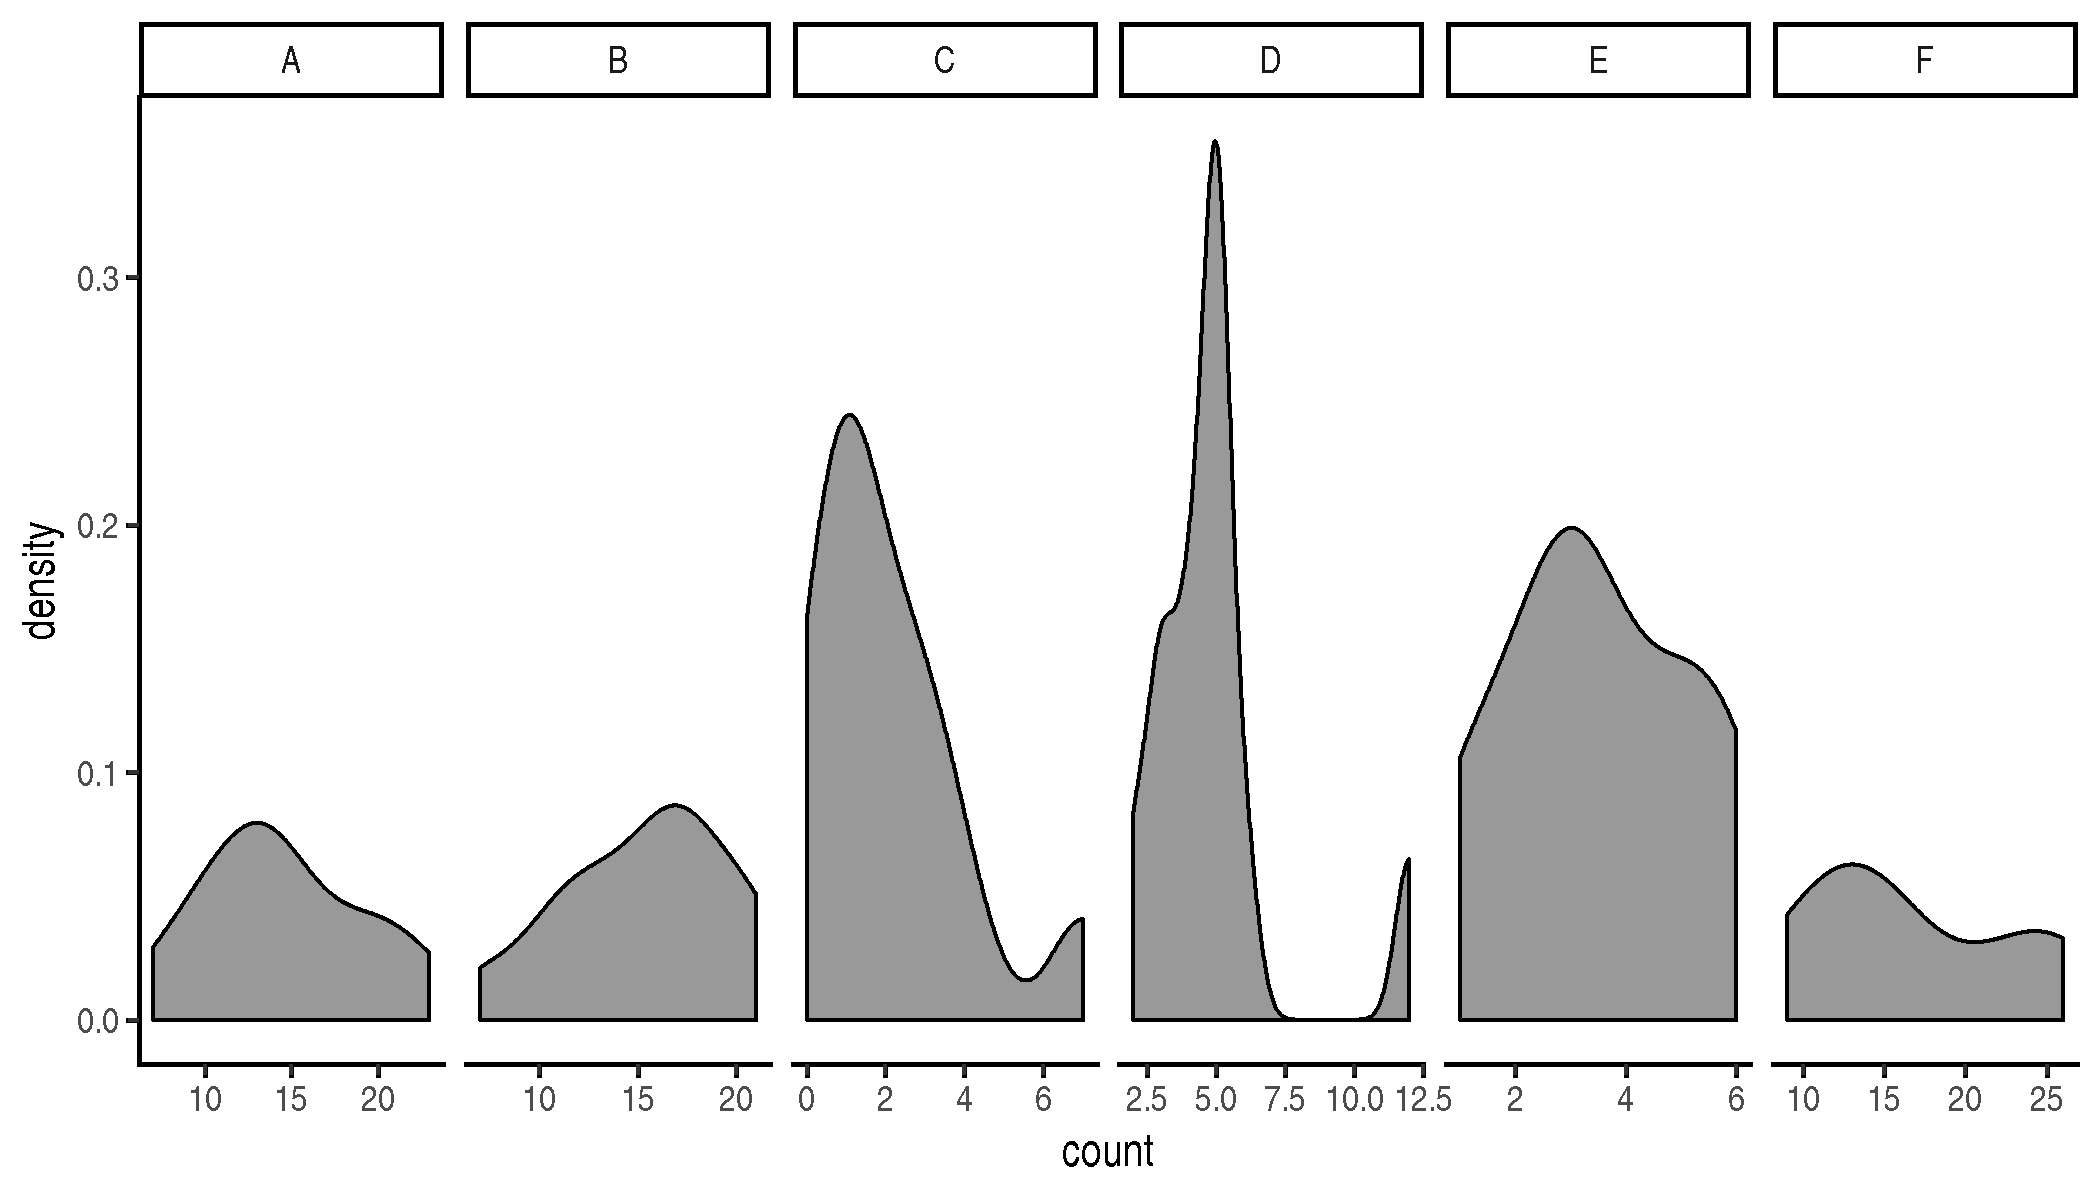
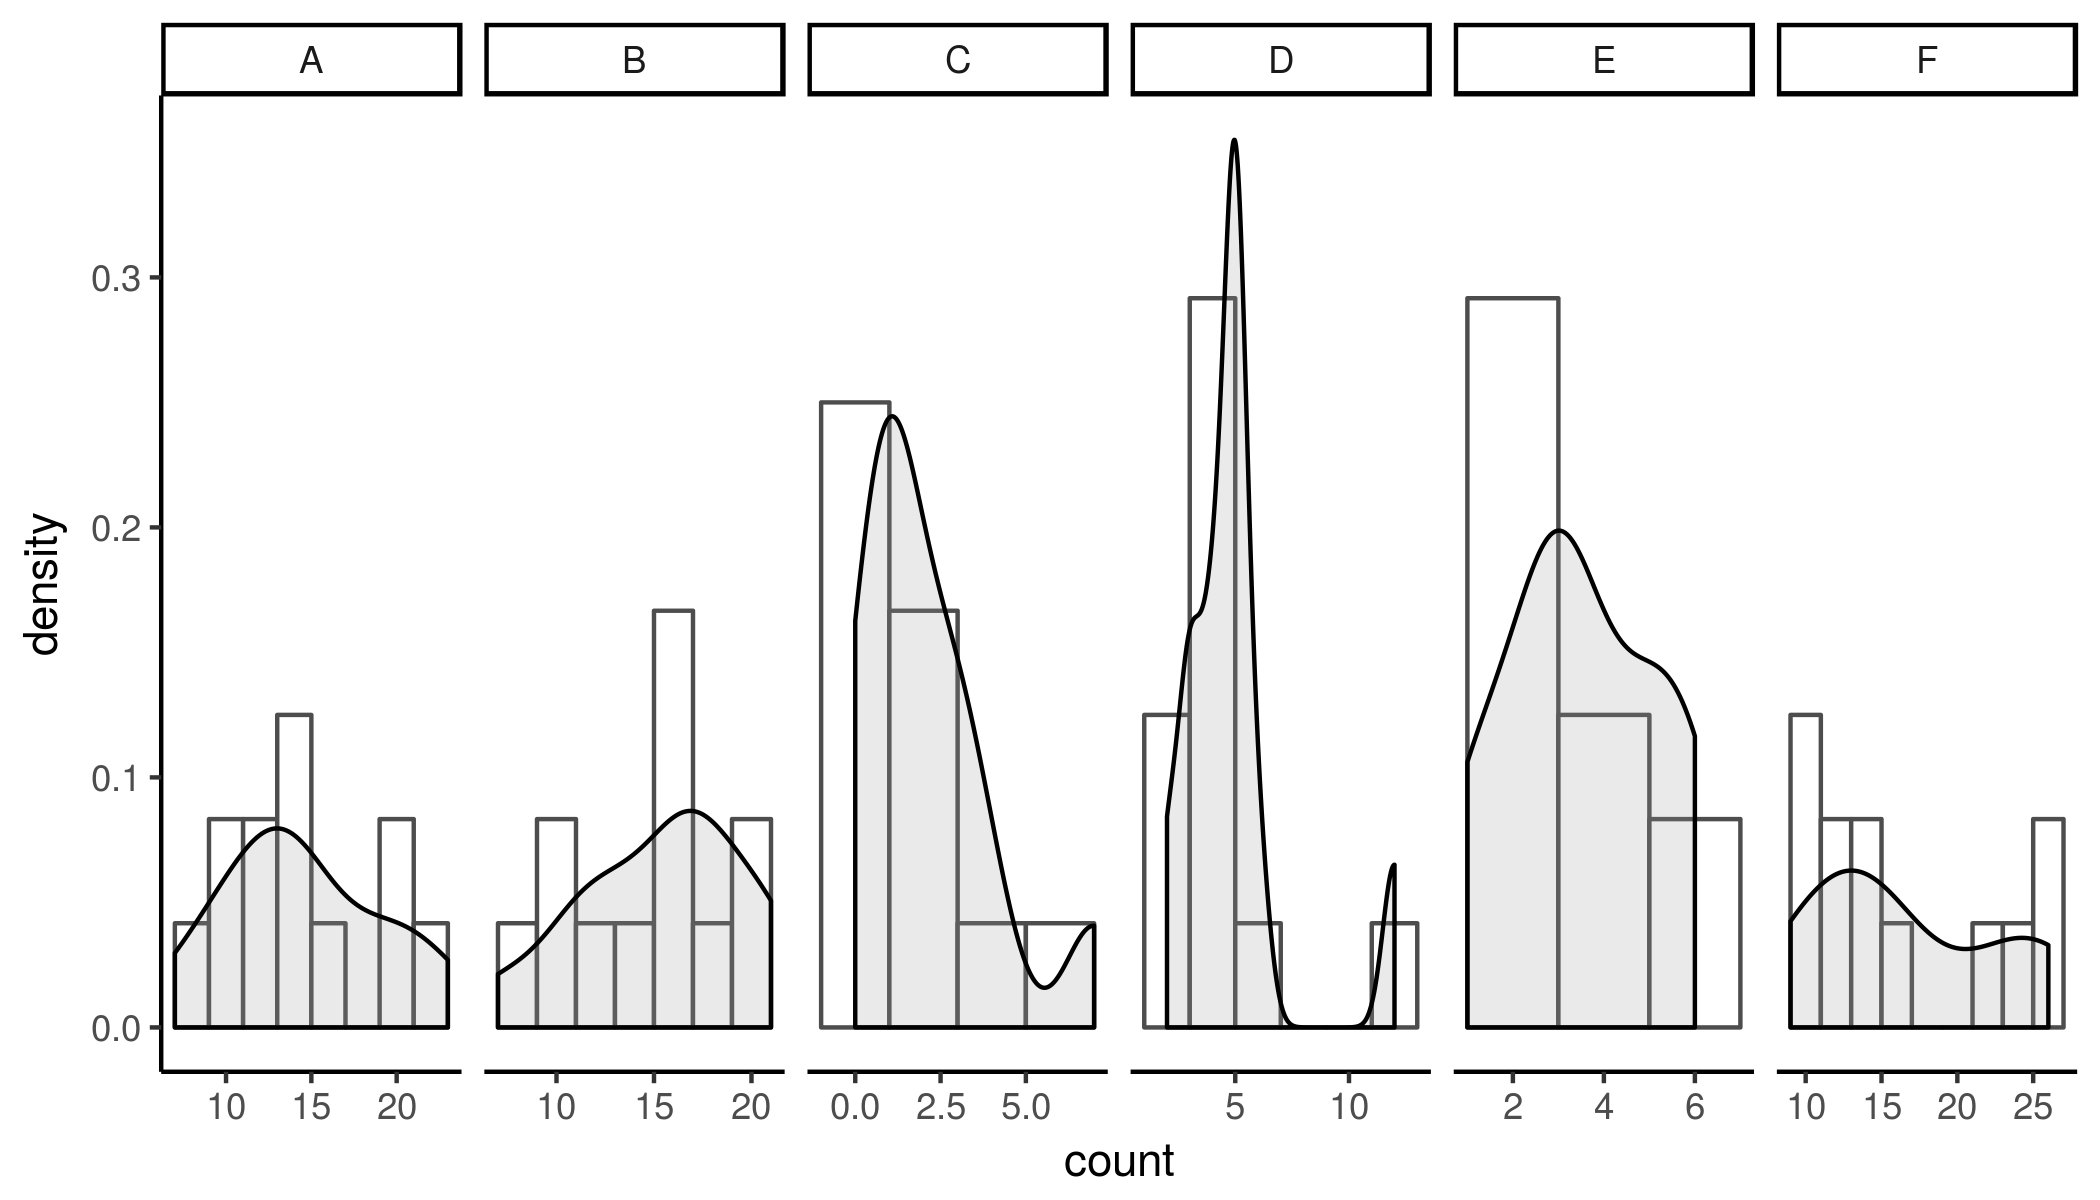
newcommit

diff --git a/_posts/2018-11-13-shape-of-you.md b/_posts/2018-11-13-shape-of-you.md
@@ -33,15 +33,16 @@ Pero primero lo primero, necesitamos un <i>dataset</i> a modo de ejemplo para tr
 72    13     F
 ```
 
-Para los gráficos vamos a usar un paquete llamado ggplot2, del que no vamos a entrar en detalles de la sintaxis pero la pueden consultar <a href="https://ggplot2.tidyverse.org/">aquí</a>. Nuestro objetivo es visualizar como se comportan las distribuciones de conteos de cada spray. Aprender sobre su magnitud y variabilidad nos da mucha información para luego elegir como modelar estos datos. La primera idea que tuve fue hacer un histograma, o mejor aún, un density plot que es similar pero con un suavizado que permite visualizar mejor la forma de la distribución.
+Para los gráficos vamos a usar un paquete llamado ggplot2, del que no vamos a entrar en detalles de la sintaxis pero la pueden consultar <a href="https://ggplot2.tidyverse.org/">aquí</a>. Nuestro objetivo es visualizar como se comportan las distribuciones de conteos de cada spray. Aprender sobre su magnitud y variabilidad nos da mucha información para luego elegir como modelar estos datos. La primera idea que tuve fue hacer un histograma y agregarle encima un density plot que es una clase de suavizado que permite visualizar mejor la forma de la distribución.
 
 ```r
 > library(ggplot2)
 
 > ## Density
 > ggplot(InsectSprays, aes(count)) + 
-    geom_density(fill="grey60") +
-    facet_grid(.~spray, scales="free_x") + theme_classic()
+        geom_histogram(aes(y=..density..), binwidth = 2,  color = "grey30", fill = "white") +
+        geom_density(alpha = .2, fill = "grey60") +
+        facet_grid(.~spray, scales="free_x") + theme_classic() 
 ```
 
 {:.center}
